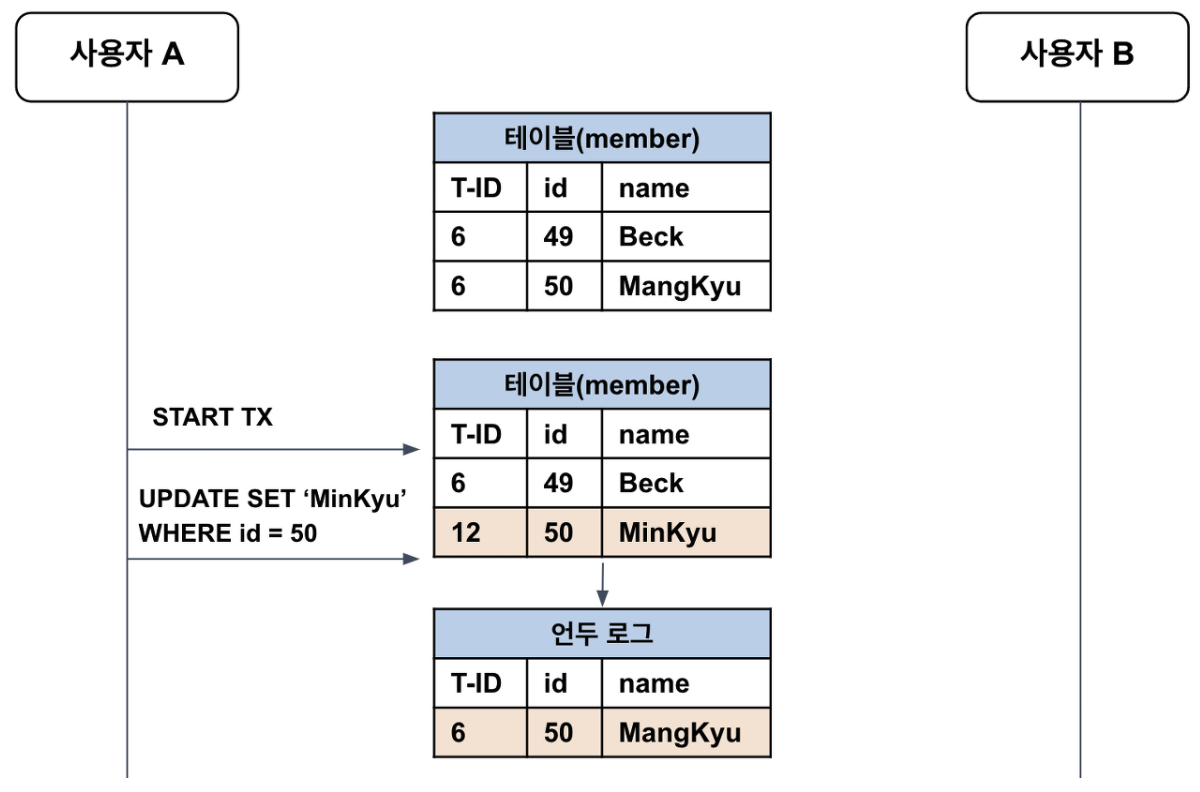
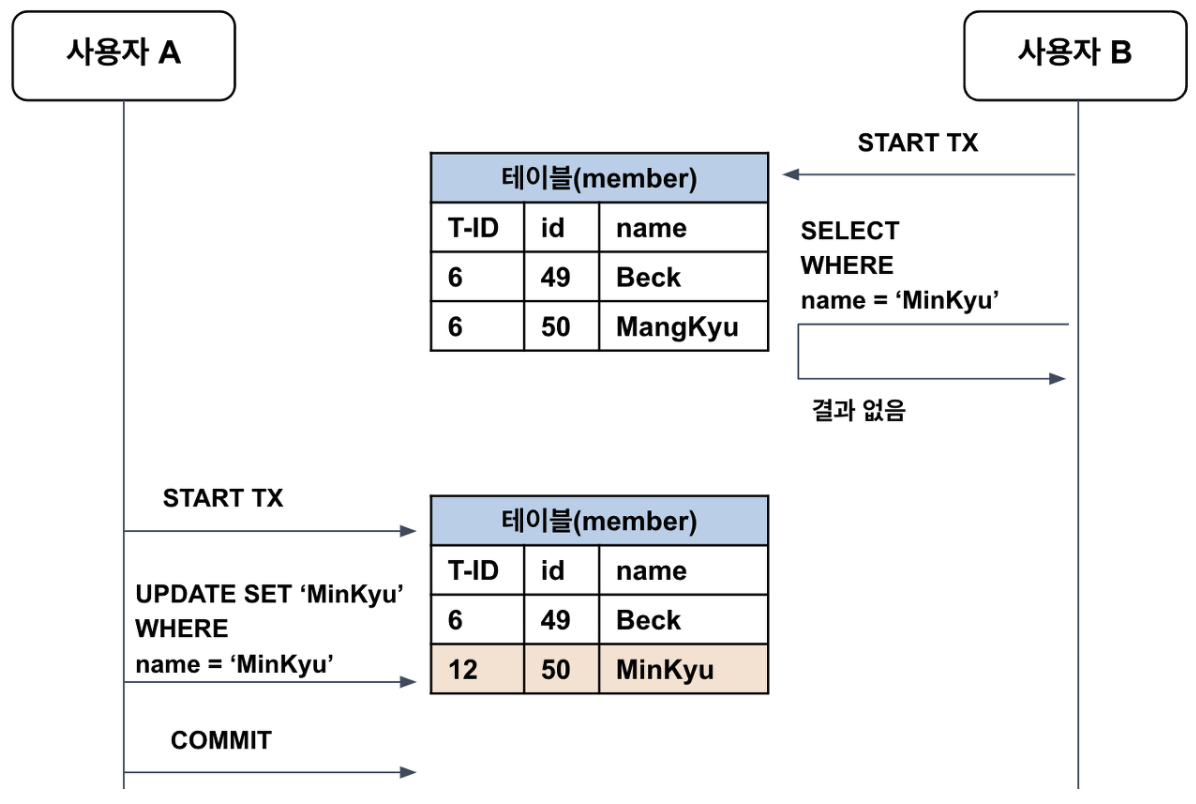
obsidian backup: 2023-11-19 00:58:14

Changed region(s): [[0.0, 0.0, 0.99, 0.9697], [0.99, 0.0303, 1.0, 0.1212], [0.1856, 0.0303, 0.2166, 0.1212]]

diff --git a/DB/Transaction/Non-Repeatable Read.md b/DB/Transaction/Non-Repeatable Read.md
@@ -1,3 +1,16 @@
 READ COMMITTED는 Non-Repeatable Read(반복 읽기 불가능) 문제가 발생할 수 있다.
 예를 들어 사용자 B가 트랜잭션을 시작하고 name="Minkyu"인 레코드를 조회했다고 하자. 해당 조건을 만족하는 레코드는 아직 존재하지 않으므로 아무것도 반환되지 않는다.
-![[Pasted image 20231119004800.png]]
+![[non-repeatable read 1.png]]
+
+그러다가 사용자 A가 UPDATE 문을 수행하여 해당 조건을 만족하는 레코드가 생겼다고 하자. 사용자 A의 작업은 커밋까지 완료된 상태이다. 이때 사용자 B가 다시 동일한 조건으로 레코드를 조회하면 어떻게 될까?
+READ COMMITTED는 **커밋된 데이터는 조회할 수 있도록 허용**하므로 결과가 나오게 된다.
+![[non-repeatable read 2.png]]
+
+**READ COMMITTED에서 반복 읽기를 수행하면 다른 트랜잭션의 커밋 여부에 따라 조회 결과가 달라질 수 있다**. 따라서 이러한 데이터 부정합 문제를 **Non-Repeatable Read(반복 읽기 불가능)** 라고 한다.
+
+Non-Repeatable Read는 일반적인 경우에는 크게 문제가 되지 않지만, 하나의 트랜잭션에서 동일한 데이터를 여러 번 읽고 변경하는 작업이 금전적인 처리와 연결되면 문제가 생길 수 있다.
+예를 들어, 어떤 트랜잭션에서는 오늘 입금된 총 합을 계산하고 있는데, 다른 트랜잭션에서 계속해서 입금 내역을 커밋하는 상황이라고 하자.
+그러면 READ COMMITED에서는 같은 트랜잭션일지라도 조회할 때마다 입금된 내역이 달라지므로 문제가 생길 수 있는 것이다.
+
+따라서 격리 수준이 어떻게 동작하는지, 그리고 격리 수준에 따라 어떠한 결과가 나오는지 예측할 수 있어야 한다.
+READ COMMITTED 수준에서는 애초에 커밋된 데이터만 읽을 수 있기 때문에 트랜잭션 내에서 실행되는 SELECT와 트랜잭션 밖에서 실행되는 SELECT의 차이가 별로 없다.

diff --git a/DB/Transaction/READ COMMITTED 작동 방식.md b/DB/Transaction/READ COMMITTED 작동 방식.md
@@ -1,7 +1,7 @@
 예를 들어 사용자 A가 트랜잭션을 시작하여 어떤 데이터를 변경하였고, 아직 커밋은 하지 않은 상태라고 하자. 그러면 테이블은 먼저 갱신되고, 언두 로그로 변경 전의 데이터가 백업된다.
 
-![[Non-repeatable read 1.png]]
+![[read committed 1.png]]
 
 이때 사용자 B가 데이터를 조회하려고 하면, READ COMMITTED에서는 커밋된 데이터만 조회할 수 있으므로, REPEATABLE READ와 마찬가지로 언두 로그에서 변경 전의 데이터를 찾아서 반환하게 된다.
 최종적으로 사용자 A가 트랜잭션을 커밋하면 그때부터 다른 트랜잭션에서도 새롭게 변경된 값을 참조할 수 있는 것이다.
-![[Non-repeatable read 2.png]]
+![[read committed 2.png]]

diff --git a/DB/Transaction/READ UNCOMMITTED 작동 방식.md b/DB/Transaction/READ UNCOMMITTED 작동 방식.md
@@ -1,0 +1,2 @@
+예를 들어 사용자 A의 트랜잭션에서 INSERT를 통해 데이터를 추가했다고 하자. 아직 커밋 또는 롤백이 되지 않는 상태임에도 불구하고 READ UNCOMMITTED는 변경된 데이터에 접근할 수 있다.
+![[read uncommitted 1.png]]
